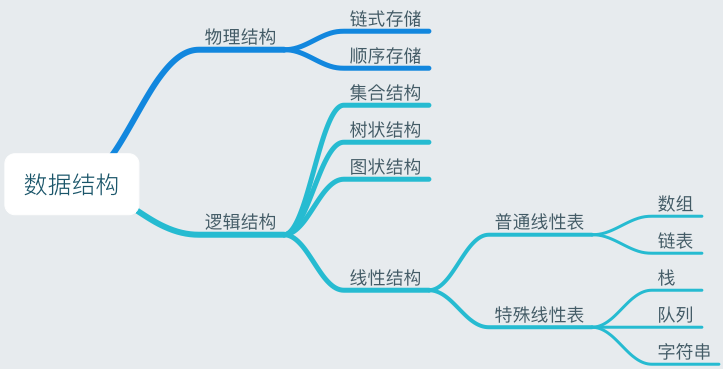
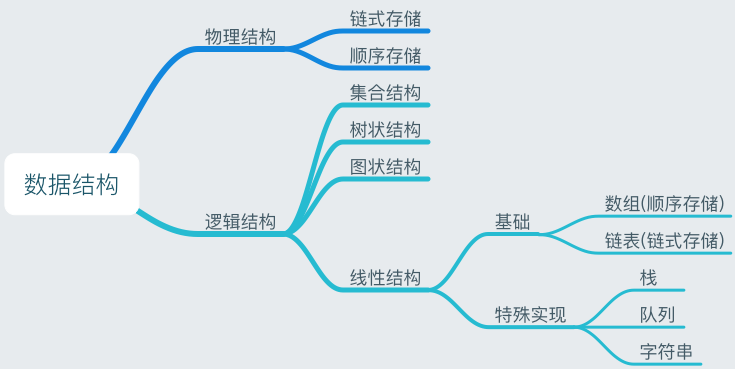
顺序存储

diff --git a/_site/2015/02/01/data-1/index.html b/_site/2015/02/01/data-1/index.html
@@ -148,9 +148,39 @@
   <li>内部结点有一个前趋结点,有一个后继结点.</li>
 </ol>
 
-<h3 id="一栈">一、栈</h3>
+<h3 id="一线性结构">一、线性结构</h3>
 
-<p>栈 (Stack)是限定仅在表尾进行插入和删除操作的特殊线性表，一种后进先出(last in first off，LIFO)的数据结构，栈属于一个逻辑概念，栈的实现可以用顺序也可以用链式。</p>
+<h3 id="一数组array">(一)、数组(Array)</h3>
+
+<p>数组是一种线性结构然后按顺序存储的数据结构，下标不同的n(n≥1)个相同数据类型的数据元素a0,a1,a2,…,an-1构成的占用一块地址连续的内存单元的有限集合</p>
+
+<p>数组是将元素在内存中连续存放，由于每个元素占用内存相同，可以通过下标迅速访问数组中任何元素。但是如果要在数组中增加一个元素，需要移动大量元素，在内存中空出一个元素的空间，然后将要增加的元素放在其中。同样的道理，如果想删除一个元素，同样需要移动大量元素去填掉被移动的元素。如果应用需要快速访问数据，很少或不插入和删除元素，就应该用数组。</p>
+
+<p><img src="/img/data/03.png" alt="img" /></p>
+
+<h3 id="二链表list">(二)、链表(List)</h3>
+
+<p><strong>链表</strong>:即是由节点（Node）组成的线性集合，每个节点可以利用指针指向其他节点。它是一种包含了多个节点的、能够用于表示序列的数据结构。</p>
+
+<p>链表中的元素在内存中不是顺序存储的，而是通过存在元素中的指针联系到一起。比如：上一个元素有个指针指到下一个元素，以此类推，直到最后一个元素。如果要访问链表中一个元素，需要从第一个元素开始，一直找到需要的元素位置。但是增加和删除一个元素对于链表数据结构就非常简单了，只要修改元素中的指针就可以了。如果应用需要经常插入和删除元素你就需要用链表数据结构了。</p>
+
+<ul>
+  <li><strong>单向链表</strong>: 链表中的节点仅指向下一个节点，并且最后一个节点指向空。</li>
+  <li><strong>双向链表</strong>: 其中每个节点具有两个指针 p、n，使得 p 指向先前节点并且 n 指向下一个节点；最后一个节点的 n 指针指向 null。</li>
+  <li><strong>循环链表</strong>：每个节点指向下一个节点并且最后一个节点指向第一个节点的链表。</li>
+  <li>时间复杂度:
+    <ul>
+      <li>索引: <code class="highlighter-rouge">O(n)</code></li>
+      <li>搜索: <code class="highlighter-rouge">O(n)</code></li>
+      <li>插入: <code class="highlighter-rouge">O(1)</code></li>
+      <li>移除: <code class="highlighter-rouge">O(1)</code></li>
+    </ul>
+  </li>
+</ul>
+
+<h3 id="三栈">(三)、栈</h3>
+
+<p>栈 (Stack)是限定仅在表尾进行插入和删除操作的特殊线性表，一种后进先出(last in first off，LIFO)的数据结构，栈属于一个逻辑概念，栈的实现可以用顺序(数组)也可以用链式(链表)。</p>
 
 <p>我们把允许插入和删除的一端称为栈顶，另一端称为栈底，不含任何数据元素的栈称为空栈。</p>
 
@@ -183,9 +213,9 @@
 
 <p>在drawGreenCircle方法中，在设置填充颜色之前，我们Push保存了绘图上下文的信息，然后在设置当前操作的一些环境变量，绘制图形，绘制完成之后，我们Pop出之前保存的绘图上下文信息，从而不影响后面的绘图。</p>
 
-<h3 id="二队列">二、队列</h3>
+<h3 id="四队列">(四)、队列</h3>
 
-<p>队列(Queue)是只允许在一段进行插入操作，而在另一端进行删除操作的线性表，是一种先进先出 (fisrt in first out，FIFO)的结构，允许插入的一端称为队尾，允许删除的一端称为队头。队列的实现同样可以用顺序也可以用链式</p>
+<p>队列(Queue)是只允许在一段进行插入操作，而在另一端进行删除操作的线性表，是一种先进先出 (fisrt in first out，FIFO)的结构，允许插入的一端称为队尾，允许删除的一端称为队头。队列的实现同样可以用顺序(数组)也可以用链式(链表)</p>
 
 <p><img src="/img/data/02.png" alt="img" /></p>
 
@@ -202,35 +232,17 @@
 
 <p>GCD队列</p>
 
-<h3 id="三线性表一数组array">三、线性表(一)：数组(Array)</h3>
+<h3 id="五字符串string">(五)、字符串(String)</h3>
 
-<p>数组是一种线性结构然后按顺序存储的数据结构，下标不同的n(n≥1)个相同数据类型的数据元素a0,a1,a2,…,an-1构成的占用一块地址连续的内存单元的有限集合</p>
+<p>串是由另个或多个字符组成的有限序列，又名字符串，字符串通常采用顺序存储，但是字符串较长而没有那么大的连续空间时，可以把一个字符串分成多个小串，串与串之间采用链式存储</p>
 
-<p>数组是将元素在内存中连续存放，由于每个元素占用内存相同，可以通过下标迅速访问数组中任何元素。但是如果要在数组中增加一个元素，需要移动大量元素，在内存中空出一个元素的空间，然后将要增加的元素放在其中。同样的道理，如果想删除一个元素，同样需要移动大量元素去填掉被移动的元素。如果应用需要快速访问数据，很少或不插入和删除元素，就应该用数组。</p>
+<p>ASCII编码是由8位二进制数表示一个字符，总共可以表示256个字符</p>
 
-<p><img src="/img/data/03.png" alt="img" /></p>
+<p>Unicode编码由16位的二进制表示一个字符，总共可以表示65万个多个字符,为了和ASCII码兼容，Unicode的前256个字符和ASCII码完全相同</p>
 
-<h3 id="四线性表二链表list">四、线性表(二)：链表(List)</h3>
+<h3 id="二树形结构">二、树形结构</h3>
 
-<p><strong>链表</strong>:即是由节点（Node）组成的线性集合，每个节点可以利用指针指向其他节点。它是一种包含了多个节点的、能够用于表示序列的数据结构。</p>
-
-<p>链表中的元素在内存中不是顺序存储的，而是通过存在元素中的指针联系到一起。比如：上一个元素有个指针指到下一个元素，以此类推，直到最后一个元素。如果要访问链表中一个元素，需要从第一个元素开始，一直找到需要的元素位置。但是增加和删除一个元素对于链表数据结构就非常简单了，只要修改元素中的指针就可以了。如果应用需要经常插入和删除元素你就需要用链表数据结构了。</p>
-
-<ul>
-  <li><strong>单向链表</strong>: 链表中的节点仅指向下一个节点，并且最后一个节点指向空。</li>
-  <li><strong>双向链表</strong>: 其中每个节点具有两个指针 p、n，使得 p 指向先前节点并且 n 指向下一个节点；最后一个节点的 n 指针指向 null。</li>
-  <li><strong>循环链表</strong>：每个节点指向下一个节点并且最后一个节点指向第一个节点的链表。</li>
-  <li>时间复杂度:
-    <ul>
-      <li>索引: <code class="highlighter-rouge">O(n)</code></li>
-      <li>搜索: <code class="highlighter-rouge">O(n)</code></li>
-      <li>插入: <code class="highlighter-rouge">O(1)</code></li>
-      <li>移除: <code class="highlighter-rouge">O(1)</code></li>
-    </ul>
-  </li>
-</ul>
-
-<h3 id="五树tree">五、树(Tree)</h3>
+<h3 id="一树tree">（一）、树(Tree)</h3>
 
 <p>树是n(n&gt;=0)个结点的有限集。n=0时称为空树。在任意一颗非空树中:</p>
 
@@ -264,7 +276,7 @@
   <li><strong>完美二叉树（Perfect Binary Tree）</strong>: 二叉树中的每个叶节点都拥有两个子节点，并且具有相同的高度。</li>
 </ul>
 
-<h3 id="六堆heap">六、堆(Heap)</h3>
+<h3 id="二堆heap">（二）、堆(Heap)</h3>
 
 <p>堆是一种特殊的基于树的满足某些特性的数据结构，整个堆中的所有父子节点的键值都会满足相同的排序条件。堆更准确地可以分为最大堆与最小堆，在最大堆中，父节点的键值永远大于或者等于子节点的值，并且整个堆中的最大值存储于根节点；而最小堆中，父节点的键值永远小于或者等于其子节点的键值，并且整个堆中的最小值存储于根节点。</p>
 
@@ -278,9 +290,20 @@
 
 <p><img src="/img/data/07.png" alt="img" /></p>
 
-<h3 id="七哈希表">七、哈希表</h3>
+<h3 id="三图graph">三、图(Graph)</h3>
 
-<p><em>hash map</em> 是一个存储键值间关系的数据结构。HashMap 通过哈希函数将键转化为桶或者槽中的下标，从而便于指定值的查找。</p>
+<p>图是一种数据元素间为多对多关系的数据结构，加上一组基本操作构成的抽象数据类型。图是由顶点的有穷非空集合和顶点之间的集合组成，通常表示为:G(V,E)，其中，G表示一个图，V是图中顶点的节后，E是图中边的集合.</p>
+
+<ul>
+  <li><strong>无向图（Undirected Graph）</strong>: 无向图具有对称的邻接矩阵，因此如果存在某条从节点 u 到节点 v 的边，反之从 v 到 u 的边也存在。</li>
+  <li><strong>有向图（Directed Graph）</strong>: 有向图的邻接矩阵是非对称的，即如果存在从 u 到 v 的边并不意味着一定存在从 v 到 u 的边。</li>
+</ul>
+
+<p><img src="/img/data/05.png" alt="img" /></p>
+
+<h3 id="四哈希表">四、哈希表</h3>
+
+<p><em>hash map</em> 是一个存储键值间关系的数据结构。HashMap 通过哈希函数将键转化为桶或者槽中的下标，从而便于指定值的查找。HashMap是顺序结构及链表结构的组合</p>
 
 <p>哈希用于将任意长度的数据映射到固定长度的数据。哈希函数的返回值被称为哈希值、哈希码或者哈希。如果不同的主键得到相同的哈希值，则发生了冲突。</p>
 
@@ -295,16 +318,7 @@
   <li><strong>开放地址法（Open Addressing）</strong>：在开放地址方法中，当插入新值时，会判断该值对应的哈希桶是否存在，如果存在则根据某种算法依次选择下一个可能的位置，直到找到一个未被占用的地址。开放地址即某个元素的位置并不永远由其哈希值决定。</li>
 </ul>
 
-<h3 id="八图graph">八、图(Graph)</h3>
-
-<p>图是一种数据元素间为多对多关系的数据结构，加上一组基本操作构成的抽象数据类型。图是由顶点的有穷非空集合和顶点之间的集合组成，通常表示为:G(V,E)，其中，G表示一个图，V是图中顶点的节后，E是图中边的集合.</p>
-
-<ul>
-  <li><strong>无向图（Undirected Graph）</strong>: 无向图具有对称的邻接矩阵，因此如果存在某条从节点 u 到节点 v 的边，反之从 v 到 u 的边也存在。</li>
-  <li><strong>有向图（Directed Graph）</strong>: 有向图的邻接矩阵是非对称的，即如果存在从 u 到 v 的边并不意味着一定存在从 v 到 u 的边。</li>
-</ul>
-
-<p><img src="/img/data/05.png" alt="img" /></p>
+<p>###</p>
 
 
                 <hr>

diff --git a/_posts/2015-02-01-data-1.md b/_posts/2015-02-01-data-1.md
@@ -39,9 +39,34 @@ header-img: "img/Http/bg.jpg"
 5. 尾结点只有前趋结点,元后继结点.
 6. 内部结点有一个前趋结点,有一个后继结点.
 
-### 一、栈
+### 一、线性结构
 
-栈 (Stack)是限定仅在表尾进行插入和删除操作的特殊线性表，一种后进先出(last in first off，LIFO)的数据结构，栈属于一个逻辑概念，栈的实现可以用顺序也可以用链式。
+### (一)、数组(Array)
+
+数组是一种线性结构然后按顺序存储的数据结构，下标不同的n(n≥1)个相同数据类型的数据元素a0,a1,a2,...,an-1构成的占用一块地址连续的内存单元的有限集合
+
+数组是将元素在内存中连续存放，由于每个元素占用内存相同，可以通过下标迅速访问数组中任何元素。但是如果要在数组中增加一个元素，需要移动大量元素，在内存中空出一个元素的空间，然后将要增加的元素放在其中。同样的道理，如果想删除一个元素，同样需要移动大量元素去填掉被移动的元素。如果应用需要快速访问数据，很少或不插入和删除元素，就应该用数组。
+
+![img](/img/data/03.png)
+
+### (二)、链表(List)
+
+**链表**:即是由节点（Node）组成的线性集合，每个节点可以利用指针指向其他节点。它是一种包含了多个节点的、能够用于表示序列的数据结构。
+
+链表中的元素在内存中不是顺序存储的，而是通过存在元素中的指针联系到一起。比如：上一个元素有个指针指到下一个元素，以此类推，直到最后一个元素。如果要访问链表中一个元素，需要从第一个元素开始，一直找到需要的元素位置。但是增加和删除一个元素对于链表数据结构就非常简单了，只要修改元素中的指针就可以了。如果应用需要经常插入和删除元素你就需要用链表数据结构了。
+
+- **单向链表**: 链表中的节点仅指向下一个节点，并且最后一个节点指向空。
+- **双向链表**: 其中每个节点具有两个指针 p、n，使得 p 指向先前节点并且 n 指向下一个节点；最后一个节点的 n 指针指向 null。
+- **循环链表**：每个节点指向下一个节点并且最后一个节点指向第一个节点的链表。
+- 时间复杂度:
+  - 索引: `O(n)`
+  - 搜索: `O(n)`
+  - 插入: `O(1)`
+  - 移除: `O(1)`
+
+### (三)、栈
+
+栈 (Stack)是限定仅在表尾进行插入和删除操作的特殊线性表，一种后进先出(last in first off，LIFO)的数据结构，栈属于一个逻辑概念，栈的实现可以用顺序(数组)也可以用链式(链表)。
 
 我们把允许插入和删除的一端称为栈顶，另一端称为栈底，不含任何数据元素的栈称为空栈。
 
@@ -71,9 +96,9 @@ Navigationcontroller就是一个栈结构，先push进来的ViewController被压
 
 在drawGreenCircle方法中，在设置填充颜色之前，我们Push保存了绘图上下文的信息，然后在设置当前操作的一些环境变量，绘制图形，绘制完成之后，我们Pop出之前保存的绘图上下文信息，从而不影响后面的绘图。
 
-### 二、队列
+### (四)、队列
 
-队列(Queue)是只允许在一段进行插入操作，而在另一端进行删除操作的线性表，是一种先进先出 (fisrt in first out，FIFO)的结构，允许插入的一端称为队尾，允许删除的一端称为队头。队列的实现同样可以用顺序也可以用链式
+队列(Queue)是只允许在一段进行插入操作，而在另一端进行删除操作的线性表，是一种先进先出 (fisrt in first out，FIFO)的结构，允许插入的一端称为队尾，允许删除的一端称为队头。队列的实现同样可以用顺序(数组)也可以用链式(链表)
 
 ![img](/img/data/02.png)
 
@@ -86,30 +111,17 @@ Navigationcontroller就是一个栈结构，先push进来的ViewController被压
 
 GCD队列
 
-### 三、线性表(一)：数组(Array)
+### (五)、字符串(String)
 
-数组是一种线性结构然后按顺序存储的数据结构，下标不同的n(n≥1)个相同数据类型的数据元素a0,a1,a2,...,an-1构成的占用一块地址连续的内存单元的有限集合
+串是由另个或多个字符组成的有限序列，又名字符串，字符串通常采用顺序存储，但是字符串较长而没有那么大的连续空间时，可以把一个字符串分成多个小串，串与串之间采用链式存储
 
-数组是将元素在内存中连续存放，由于每个元素占用内存相同，可以通过下标迅速访问数组中任何元素。但是如果要在数组中增加一个元素，需要移动大量元素，在内存中空出一个元素的空间，然后将要增加的元素放在其中。同样的道理，如果想删除一个元素，同样需要移动大量元素去填掉被移动的元素。如果应用需要快速访问数据，很少或不插入和删除元素，就应该用数组。
+ASCII编码是由8位二进制数表示一个字符，总共可以表示256个字符
 
-![img](/img/data/03.png)
+Unicode编码由16位的二进制表示一个字符，总共可以表示65万个多个字符,为了和ASCII码兼容，Unicode的前256个字符和ASCII码完全相同
 
-### 四、线性表(二)：链表(List)
+### 二、树形结构
 
-**链表**:即是由节点（Node）组成的线性集合，每个节点可以利用指针指向其他节点。它是一种包含了多个节点的、能够用于表示序列的数据结构。
-
-链表中的元素在内存中不是顺序存储的，而是通过存在元素中的指针联系到一起。比如：上一个元素有个指针指到下一个元素，以此类推，直到最后一个元素。如果要访问链表中一个元素，需要从第一个元素开始，一直找到需要的元素位置。但是增加和删除一个元素对于链表数据结构就非常简单了，只要修改元素中的指针就可以了。如果应用需要经常插入和删除元素你就需要用链表数据结构了。
-
-- **单向链表**: 链表中的节点仅指向下一个节点，并且最后一个节点指向空。
-- **双向链表**: 其中每个节点具有两个指针 p、n，使得 p 指向先前节点并且 n 指向下一个节点；最后一个节点的 n 指针指向 null。
-- **循环链表**：每个节点指向下一个节点并且最后一个节点指向第一个节点的链表。
-- 时间复杂度:
-  - 索引: `O(n)`
-  - 搜索: `O(n)`
-  - 插入: `O(1)`
-  - 移除: `O(1)`
-
-### 五、树(Tree)
+### （一）、树(Tree)
 
 树是n(n>=0)个结点的有限集。n=0时称为空树。在任意一颗非空树中:
 
@@ -137,7 +149,7 @@ GCD队列
 - **满二叉树**: 树中的每个节点仅包含 0 或 2 个节点。
 - **完美二叉树（Perfect Binary Tree）**: 二叉树中的每个叶节点都拥有两个子节点，并且具有相同的高度。
 
-### 六、堆(Heap)
+### （二）、堆(Heap)
 
 堆是一种特殊的基于树的满足某些特性的数据结构，整个堆中的所有父子节点的键值都会满足相同的排序条件。堆更准确地可以分为最大堆与最小堆，在最大堆中，父节点的键值永远大于或者等于子节点的值，并且整个堆中的最大值存储于根节点；而最小堆中，父节点的键值永远小于或者等于其子节点的键值，并且整个堆中的最小值存储于根节点。
 
@@ -149,9 +161,18 @@ GCD队列
 
 ![img](/img/data/07.png)
 
-### 七、哈希表
+### 三、图(Graph)
 
-*hash map* 是一个存储键值间关系的数据结构。HashMap 通过哈希函数将键转化为桶或者槽中的下标，从而便于指定值的查找。
+图是一种数据元素间为多对多关系的数据结构，加上一组基本操作构成的抽象数据类型。图是由顶点的有穷非空集合和顶点之间的集合组成，通常表示为:G(V,E)，其中，G表示一个图，V是图中顶点的节后，E是图中边的集合.
+
+- **无向图（Undirected Graph）**: 无向图具有对称的邻接矩阵，因此如果存在某条从节点 u 到节点 v 的边，反之从 v 到 u 的边也存在。
+- **有向图（Directed Graph）**: 有向图的邻接矩阵是非对称的，即如果存在从 u 到 v 的边并不意味着一定存在从 v 到 u 的边。
+
+![img](/img/data/05.png)
+
+### 四、哈希表
+
+*hash map* 是一个存储键值间关系的数据结构。HashMap 通过哈希函数将键转化为桶或者槽中的下标，从而便于指定值的查找。HashMap是顺序结构及链表结构的组合
 
 哈希用于将任意长度的数据映射到固定长度的数据。哈希函数的返回值被称为哈希值、哈希码或者哈希。如果不同的主键得到相同的哈希值，则发生了冲突。
 
@@ -162,11 +183,4 @@ GCD队列
 - **链地址法（Separate Chaining）**：在链地址法中，每个桶（bucket）是相互独立的，每一个索引对应一个元素列表。处理HashMap 的时间就是查找桶的时间（常量）与遍历列表元素的时间之和。
 - **开放地址法（Open Addressing）**：在开放地址方法中，当插入新值时，会判断该值对应的哈希桶是否存在，如果存在则根据某种算法依次选择下一个可能的位置，直到找到一个未被占用的地址。开放地址即某个元素的位置并不永远由其哈希值决定。
 
-### 八、图(Graph)
-
-图是一种数据元素间为多对多关系的数据结构，加上一组基本操作构成的抽象数据类型。图是由顶点的有穷非空集合和顶点之间的集合组成，通常表示为:G(V,E)，其中，G表示一个图，V是图中顶点的节后，E是图中边的集合.
-
-- **无向图（Undirected Graph）**: 无向图具有对称的邻接矩阵，因此如果存在某条从节点 u 到节点 v 的边，反之从 v 到 u 的边也存在。
-- **有向图（Directed Graph）**: 有向图的邻接矩阵是非对称的，即如果存在从 u 到 v 的边并不意味着一定存在从 v 到 u 的边。
-
-![img](/img/data/05.png)
+### 
